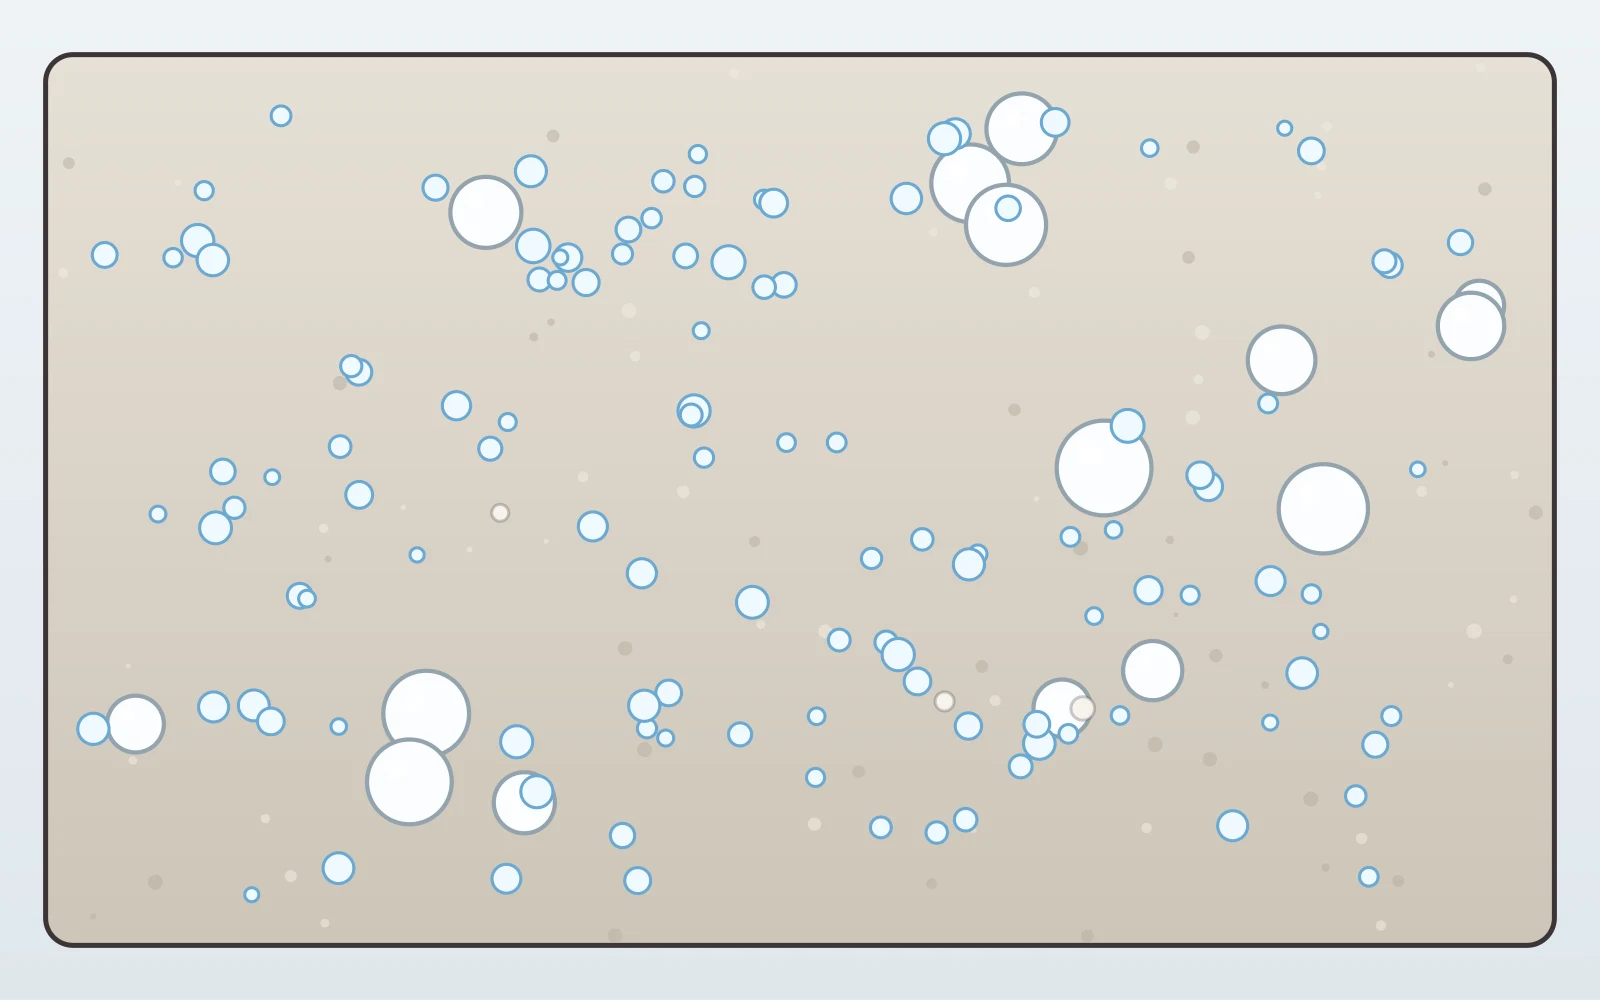
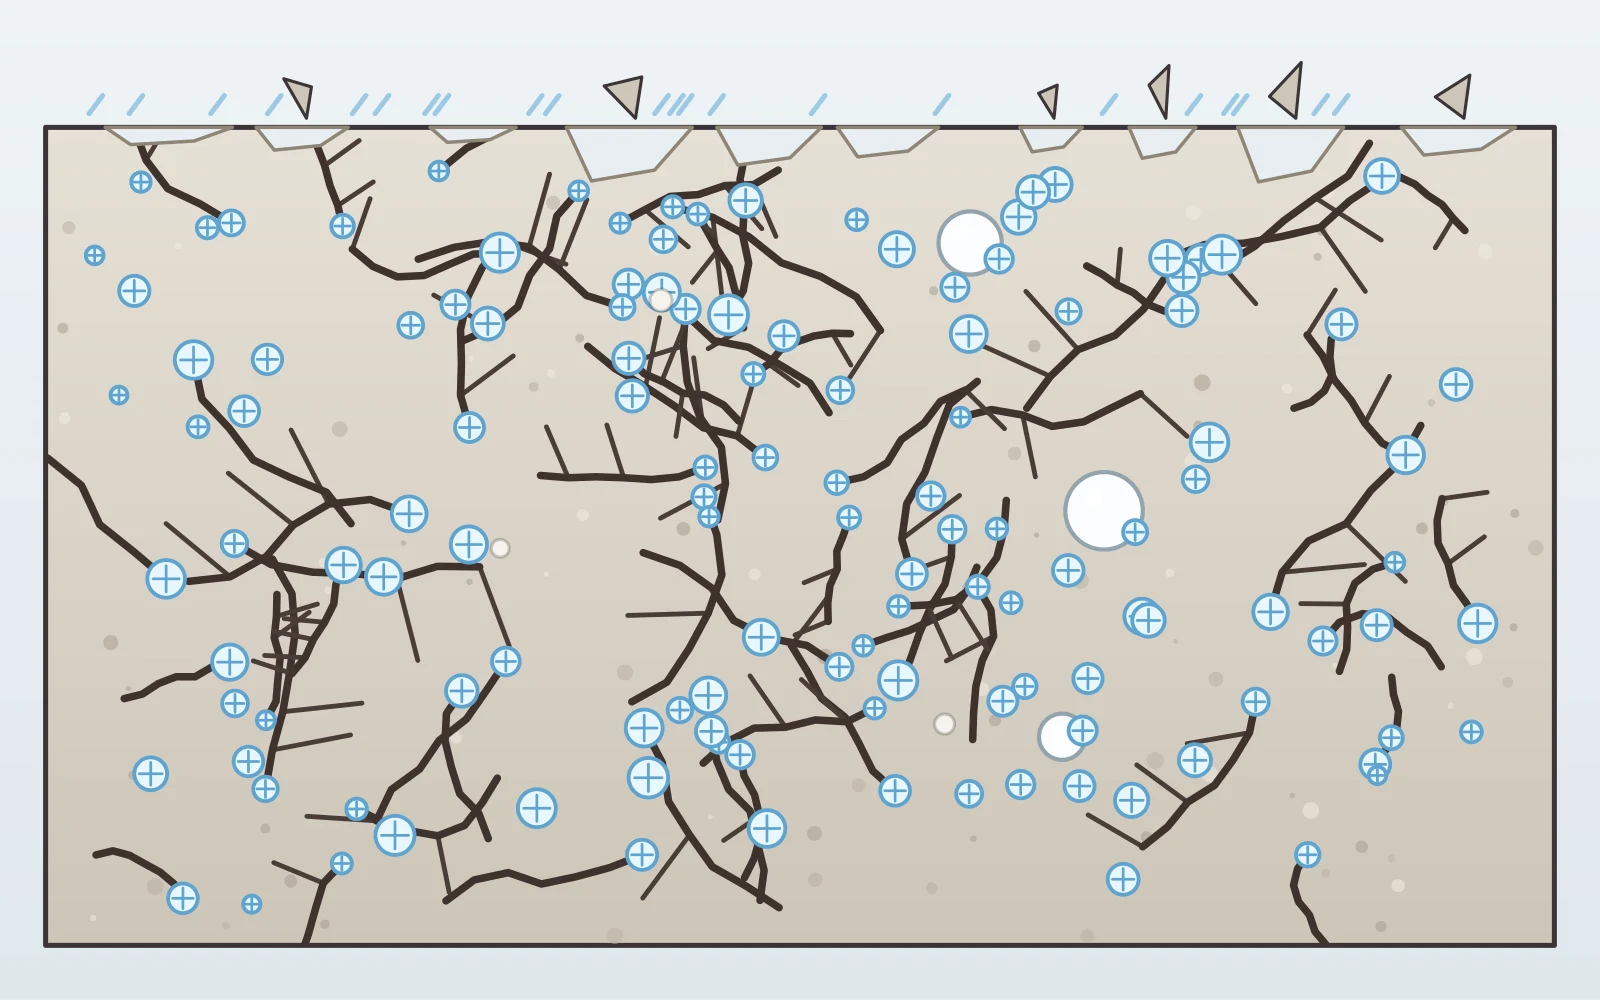
Products filter works as before, frost illustration shows real damage
- /produkter: the fade-in-on-scroll used the same class (is-in) as the
  machines/material switch, so groups faded out after switching; the
  reveal now uses its own class and skips the product groups
- Frost widget: frozen pores turn to ice, crack networks grow from pores
  far from air voids, the surface scales; freeze-thaw cycles (1, 10, 50,
  100) and a damage readout; new article image
- Logo grid hover zoom halved

diff --git a/src/js/widgets.js b/src/js/widgets.js
@@ -1457,38 +1457,78 @@
   }
 
   // ---------- 15. frost and air voids ----------
-  function frostScene(air, sat, frozen, risk) {
-    var a = art(360, 220, "wchart wfrost"), r = seeded(21), rv = seeded(5), i, voids = [];
+  // Frost in a slab edge, seen in section. Blue dots are water-filled pores, white bubbles are air voids. Frozen pores turn to ice;
+  // when the pores are too far from an air void the ice cracks the paste, and the cracks grow and the surface scales with every cycle.
+  function frostScene(air, sat, frozen, risk, cycles) {
+    cycles = cycles || 1;
+    var a = art(360, 220, "wchart wfrost"), r = seeded(21), rv = seeded(5), rc = seeded(9), i, voids = [], pores = [];
+    var X0 = 14, Y0 = 28, X1 = 346, Y1 = 208;
     a.rect(0, 0, 360, 220, a.grad([[0, "#eef3f6"], [1, "#dfe7ec"]]), { ns: true });
-    a.rect(14, 12, 332, 196, a.grad([[0, "#e6e0d6"], [1, "#cdc5b8"]]), { sw: 1.3, rx: 6 });
-    a.speckle(16, 14, 328, 192, 80, 4, ["#b9b0a2", "#f1ebe1"], 1.2);
+    // de-icing salt and slush on top, the cold air above
+    a.rect(X0, Y0, X1 - X0, Y1 - Y0, a.grad([[0, "#e6e0d6"], [1, "#cdc5b8"]]), { sw: 1.3 });
+    a.speckle(X0 + 2, Y0 + 2, X1 - X0 - 4, Y1 - Y0 - 4, 90, 4, ["#b9b0a2", "#f1ebe1", "#a99f90"], 1.4);
     var nAir = Math.round(air * 3.4);
-    for (i = 0; i < nAir; i++) { var vx = 28 + rv() * 304, vy = 26 + rv() * 168, vr = 5 + rv() * 6; voids.push([vx, vy, vr]); a.circle(vx, vy, vr, "#fbfdff", { stroke: "#93a3ad", sw: 1.1 }); a.circle(vx - vr * 0.3, vy - vr * 0.3, vr * 0.25, "#ffffff", { ns: true }); }
-    for (i = 0; i < 120; i++) {
-      var px = 24 + r() * 312, py = 22 + r() * 176, pr = 1.5 + r() * 2.2, wet = r() < sat, near = voids.some(function (v) { return Math.hypot(v[0] - px, v[1] - py) < v[2] + 24; }), roll = r();
-      a.circle(px, py, pr, wet ? (frozen ? "#eef9ff" : "#7fb6dc") : "#f7f3ed", { stroke: wet && frozen ? "#6aa8d2" : "rgba(59,52,54,.25)", sw: 0.8 });
-      if (frozen && wet && risk >= 2 && !near && roll < 0.4) a.path("M" + px.toFixed(1) + "," + py.toFixed(1) + " l" + (7 - r() * 14).toFixed(1) + "," + (7 - r() * 14).toFixed(1) + " l" + (7 - r() * 14).toFixed(1) + "," + (7 - r() * 14).toFixed(1), "none", { stroke: "#5b4a44", sw: 1.1 });
-      if (frozen && wet && risk === 1 && !near && roll < 0.15) a.path("M" + px.toFixed(1) + "," + py.toFixed(1) + " l" + (5 - r() * 10).toFixed(1) + "," + (5 - r() * 10).toFixed(1), "none", { stroke: "#7a6a62", sw: 0.9 });
+    for (i = 0; i < nAir; i++) { var vx = 28 + rv() * 304, vy = Y0 + 12 + rv() * (Y1 - Y0 - 22), vr = 4 + rv() * 5; voids.push([vx, vy, vr]); a.circle(vx, vy, vr, "#fbfdff", { stroke: "#93a3ad", sw: 1.1 }); a.circle(vx - vr * 0.3, vy - vr * 0.3, vr * 0.25, "#ffffff", { ns: true }); }
+    for (i = 0; i < 130; i++) {
+      var px = X0 + 10 + r() * (X1 - X0 - 20), py = Y0 + 8 + r() * (Y1 - Y0 - 16), pr = 1.6 + r() * 2.2, wet = r() < sat;
+      var dmin = voids.reduce(function (m, v) { return Math.min(m, Math.hypot(v[0] - px, v[1] - py) - v[2]); }, 999);
+      pores.push({ x: px, y: py, r: pr, wet: wet, far: dmin > 22 });
     }
+    var dmg = frozen ? (risk === 2 ? Math.min(1, 0.15 + 0.85 * Math.sqrt(cycles / 100)) : risk === 1 ? Math.min(0.45, 0.12 + 0.33 * Math.sqrt(cycles / 100)) : 0) : 0;
+    // cracks: from wet pores far from any air void, jagged and branching, longer with more cycles
+    if (dmg > 0) {
+      var cg = a.group({ "clip-path": a.clip("M" + X0 + "," + Y0 + " H" + X1 + " V" + Y1 + " H" + X0 + " Z") });
+      pores.forEach(function (p) {
+        if (!p.wet || !p.far || rc() > (risk === 2 ? 0.55 : 0.25)) return;
+        var len = (10 + rc() * 16) * (0.6 + dmg * 2.2), ang = rc() * Math.PI * 2, x = p.x, y = p.y, d = "M" + x.toFixed(1) + "," + y.toFixed(1), segs = 3 + Math.round(dmg * 4);
+        for (var k = 0; k < segs; k++) { ang += (rc() - 0.5) * 1.1; x += Math.cos(ang) * len / segs; y += Math.sin(ang) * len / segs; d += " L" + x.toFixed(1) + "," + y.toFixed(1); if (rc() < 0.3 * dmg) { var bx = x + Math.cos(ang + 1.2) * len / 3, by = y + Math.sin(ang + 1.2) * len / 3; a.path("M" + x.toFixed(1) + "," + y.toFixed(1) + " L" + bx.toFixed(1) + "," + by.toFixed(1), "none", { stroke: "#4a3c37", sw: 0.8 + dmg * 0.6, "stroke-linecap": "round" }, cg); } }
+        a.path(d, "none", { stroke: "#3f322e", sw: 0.9 + dmg * 1.4, "stroke-linecap": "round", "stroke-linejoin": "round" }, cg);
+      });
+    }
+    pores.forEach(function (p) {
+      var ice = frozen && p.wet;
+      a.circle(p.x, p.y, ice ? p.r * 1.15 : p.r, p.wet ? (ice ? "#e8f7ff" : "#7fb6dc") : "#f7f3ed", { stroke: ice ? "#5ea3d0" : "rgba(59,52,54,.25)", sw: ice ? 1 : 0.8 });
+      if (ice) { a.line(p.x - p.r * 0.8, p.y, p.x + p.r * 0.8, p.y, "#5ea3d0", 0.6); a.line(p.x, p.y - p.r * 0.8, p.x, p.y + p.r * 0.8, "#5ea3d0", 0.6); }
+    });
+    // surface scaling: flakes break off the top, more with every cycle
+    if (dmg > 0.3) {
+      var nF = Math.round(4 + dmg * 14), fx = X0 + 4;
+      for (i = 0; i < nF && fx < X1 - 8; i++) {
+        var w = 8 + rc() * 22, dep = 3 + rc() * 12 * dmg; fx += 2 + rc() * 16;
+        if (fx + w > X1 - 2) break;
+        a.path("M" + fx.toFixed(1) + "," + Y0 + " L" + (fx + w * 0.2).toFixed(1) + "," + (Y0 + dep).toFixed(1) + " L" + (fx + w * 0.7).toFixed(1) + "," + (Y0 + dep * 0.8).toFixed(1) + " L" + (fx + w).toFixed(1) + "," + Y0 + " Z", "#e7eef2", { stroke: "#8f8577", sw: 0.9 });
+        if (rc() < 0.6) a.poly([[fx + w * 0.3, Y0 - 6 - rc() * 8], [fx + w * 0.6, Y0 - 8 - rc() * 8], [fx + w * 0.55, Y0 - 2]], "#cdc5b8", { sw: 0.8 });
+        fx += w;
+      }
+    }
+    // frost and salt on the surface when frozen
+    if (frozen) { for (i = 0; i < 22; i++) { var sx = X0 + 6 + rc() * (X1 - X0 - 12); a.line(sx, Y0 - 3, sx + 3, Y0 - 7, "#9cc9e6", 1.1); } }
     return a.svg;
   }
   function buildFrost(app) {
-    var W = T.more.frost, S = { air: 2, sat: 92, frozen: false };
+    var W = T.more.frost, S = { air: 2, sat: 92, frozen: false, cyc: 1 };
+    var X = LANG === "sv"
+      ? { cyc: "Antal frys-tö-cykler", cycs: ["1", "10", "50", "100"], dmg: "Skador", d: ["Inga skador", "Fina sprickor", "Sprickor och avflagning"], more: "Mer luft och torrare betong ger mindre risk. Dra ner luften och upp vattenmättnaden för att se vad frosten gör." }
+      : { cyc: "Freeze-thaw cycles", cycs: ["1", "10", "50", "100"], dmg: "Damage", d: ["No damage", "Fine cracks", "Cracks and scaling"], more: "More air and drier concrete means less risk. Turn the air down and the saturation up to see what frost does." };
+    var CY = [1, 10, 50, 100];
     var sA = slider(W.air, 0.5, 8, 0.5, 2, function (v) { return num(v, 1) + " %"; }, function (v) { S.air = v; S.frozen = false; draw(); });
     var sS = slider(W.sat, 50, 100, 1, 92, function (v) { return num(v) + " %"; }, function (v) { S.sat = v; S.frozen = false; draw(); });
+    var sC = segmented(X.cyc, X.cycs, 0, function (i) { S.cyc = CY[i]; if (S.frozen) draw(); });
     var btn = el("button", { type: "button", class: "vbtn" }); btn.addEventListener("click", function () { S.frozen = !S.frozen; draw(); });
-    var box = el("div", { class: "wfrost__pic" }), big = el("p", { class: "wgt__big", "aria-live": "polite" }), stL = stat(W.spacing, "mm"), stR = stat(W.risk), msg = el("ul", { class: "wmsg" });
+    var box = el("div", { class: "wfrost__pic" }), big = el("p", { class: "wgt__big", "aria-live": "polite" }), stL = stat(W.spacing, "mm"), stR = stat(W.risk), stD = stat(X.dmg), msg = el("ul", { class: "wmsg" });
     function draw() {
       var L = 0.75 / Math.pow(S.air, 0.9), risk = S.sat < 86 ? 0 : L <= 0.2 ? 0 : L <= 0.3 ? 1 : 2;
-      box.innerHTML = ""; box.appendChild(frostScene(S.air, S.sat / 100, S.frozen, risk));
+      box.innerHTML = ""; box.appendChild(frostScene(S.air, S.sat / 100, S.frozen, risk, S.cyc));
       btn.textContent = S.frozen ? W.thaw : W.freeze;
       stL.set(num(L, 2)); stR.set(W.levels[risk]); stR.box.setAttribute("data-tone", ["good", "ok", "bad"][risk]);
+      stD.set(S.frozen ? X.d[risk] : "–"); stD.box.setAttribute("data-tone", S.frozen ? ["good", "ok", "bad"][risk] : "");
       big.textContent = S.frozen ? W.after[risk] : W.before;
       msg.innerHTML = "";
       if (S.sat < 86) msg.appendChild(el("li", { class: "wmsg__ok", text: W.dry }));
+      if (!S.frozen || risk === 0) msg.appendChild(el("li", { class: "wmsg__info", text: X.more }));
       msg.appendChild(el("li", { class: "wmsg__info", text: W.rule }));
     }
-    app.appendChild(el("div", { class: "wgt__grid" }, [el("div", { class: "wgt__ctl" }, [sA.box, sS.box, btn, el("div", { class: "stats" }, [stL.box, stR.box])]), el("div", { class: "wgt__out" }, [big, box, msg])]));
+    app.appendChild(el("div", { class: "wgt__grid" }, [el("div", { class: "wgt__ctl" }, [sA.box, sS.box, sC.box, btn, el("div", { class: "stats" }, [stL.box, stR.box, stD.box])]), el("div", { class: "wgt__out" }, [big, box, msg])]));
     app.appendChild(how(W.how));
     draw();
   }

diff --git a/src/css/site.css b/src/css/site.css
@@ -2163,7 +2163,7 @@ input[type="range"] { accent-color: var(--primary); }
 
 /* ---------- slow, gentle entrances (only with scripts, never with reduced motion) ---------- */
 .js-rv .rv { opacity: 0; transform: translateY(18px); transition: opacity .9s cubic-bezier(.2, .7, .2, 1), transform .9s cubic-bezier(.2, .7, .2, 1); }
-.js-rv .rv.is-in { opacity: 1; transform: none; }
+.js-rv .rv.rv-in { opacity: 1; transform: none; }
 @media (prefers-reduced-motion: reduce) { .js-rv .rv { opacity: 1; transform: none; } }
 .hero .hero__ctas .btn:first-child:not(.btn--ghost-light) { background: var(--primary); border-color: var(--primary); color: #2b2421; }
 .hero .hero__ctas .btn:first-child:not(.btn--ghost-light):hover { background: #ff9530; border-color: #ff9530; color: #2b2421; }
@@ -2636,7 +2636,7 @@ body::before { display: none; }
 .clients__list li:hover { background: #faf8f5; } .clients__list li:hover span { color: var(--primary); transform: translateY(-2px); }
 .clients__more span { font-family: var(--font) !important; font-size: .78rem !important; font-weight: 700; letter-spacing: .14em; text-transform: uppercase; color: var(--muted) !important; }
 .js-rv .clients__list li { opacity: 0; transform: translateY(10px); transition: opacity .6s ease, transform .6s cubic-bezier(.2, .8, .2, 1), background .3s; transition-delay: calc(var(--i, 0) * 50ms); }
-.js-rv .clients.is-in .clients__list li, .js-rv .is-in .clients__list li { opacity: 1; transform: none; }
+.js-rv .clients.rv-in .clients__list li, .js-rv .rv-in .clients__list li { opacity: 1; transform: none; }
 @media (prefers-reduced-motion: reduce) { .js-rv .clients__list li { opacity: 1; transform: none; } }
 @media (max-width: 900px) { .prose ul.clients__list { grid-template-columns: repeat(3, minmax(0, 1fr)); } }
 @media (max-width: 560px) { .prose ul.clients__list { grid-template-columns: repeat(2, minmax(0, 1fr)); } .prose .clients__list > li { min-height: 4.8rem; } }
@@ -2761,3 +2761,6 @@ body::before { display: none; }
 
 /* r34: gallery arrows and dots stay round, as on the original site */
 .carousel__btn, .carousel__dot { border-radius: 50% !important; }
+
+/* r35: half the hover zoom in the logo grid */
+.lgrid__a.is-hot img, .lgrid__a:hover img, .lgrid__a:focus-visible img { transform: scale(1.46); }

diff --git a/src/js/site.js b/src/js/site.js
@@ -2032,11 +2032,11 @@
 // ---------- gentle entrances: sections fade up as they come into view (skipped with reduced motion or without IntersectionObserver) ----------
 (function () {
   if (!("IntersectionObserver" in window) || (window.matchMedia && matchMedia("(prefers-reduced-motion: reduce)").matches)) return;
-  var els = document.querySelectorAll(".page-body .prose > *, .intro__inner, section.logorow, .cta > .container");
+  var els = document.querySelectorAll(".page-body .prose > *:not(.pgroup):not(.pfilter), .intro__inner, section.logorow, .cta > .container");
   if (!els.length) return;
   document.documentElement.classList.add("js-rv");
-  var io = new IntersectionObserver(function (entries) { entries.forEach(function (e) { if (e.isIntersecting) { e.target.classList.add("is-in"); io.unobserve(e.target); } }); }, { rootMargin: "0px 0px -8% 0px", threshold: 0.06 });
-  [].forEach.call(els, function (el) { var r = el.getBoundingClientRect(); el.classList.add("rv"); if (r.top < window.innerHeight * 0.95) el.classList.add("is-in"); else io.observe(el); });
+  var io = new IntersectionObserver(function (entries) { entries.forEach(function (e) { if (e.isIntersecting) { e.target.classList.add("rv-in"); io.unobserve(e.target); } }); }, { rootMargin: "0px 0px -8% 0px", threshold: 0.06 });
+  [].forEach.call(els, function (el) { var r = el.getBoundingClientRect(); el.classList.add("rv"); if (r.top < window.innerHeight * 0.95) el.classList.add("rv-in"); else io.observe(el); });
 })();
 
 // printing: open folded answers and details so the printout is complete
